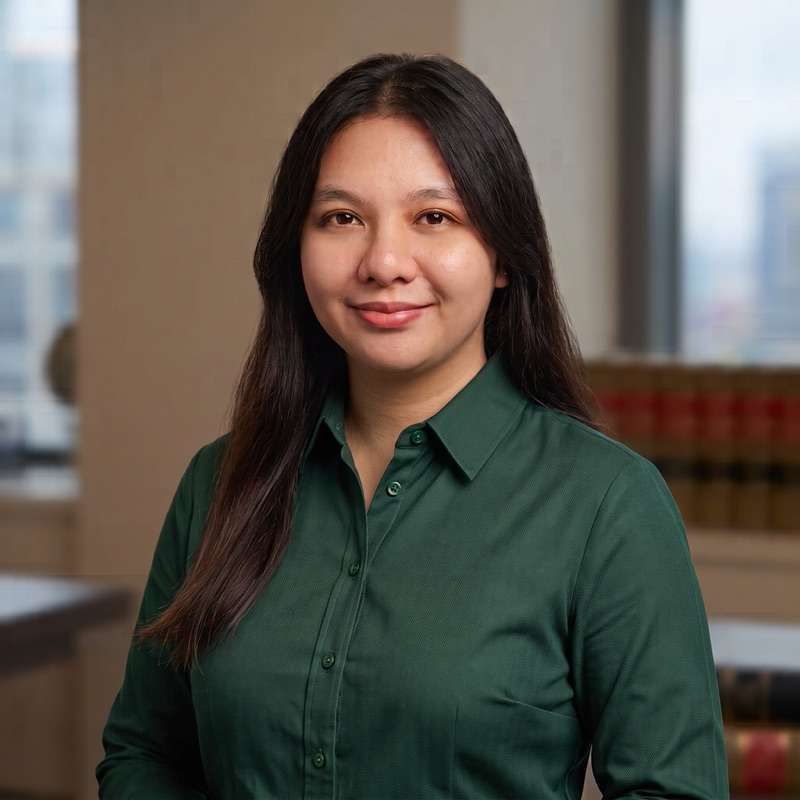
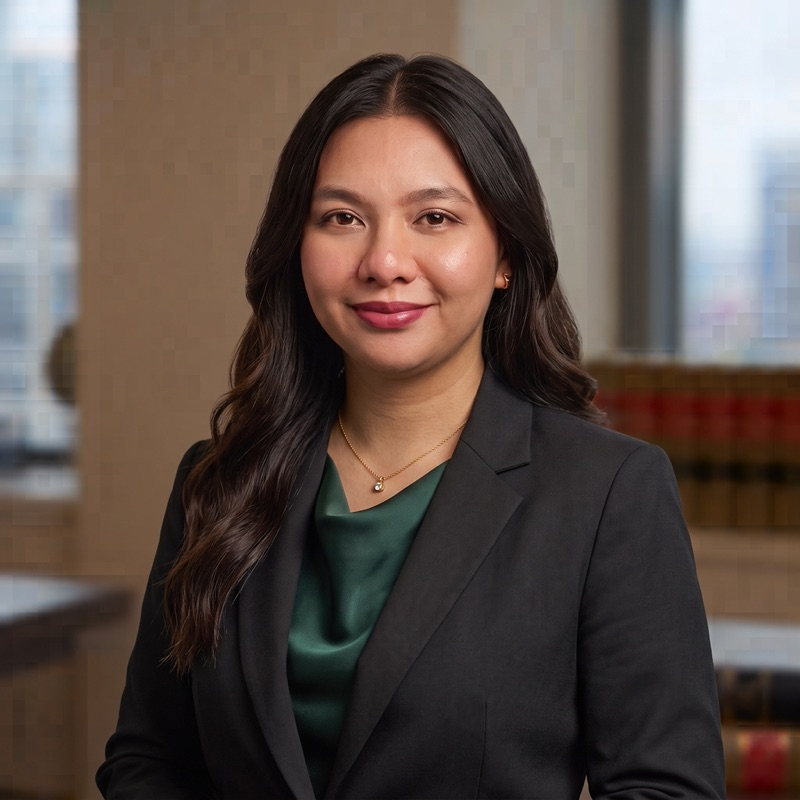
minor changes

diff --git a/content/uninsured-insured.html b/content/uninsured-insured.html
@@ -42,7 +42,7 @@
 
     <div class="conflict-grid">
         <div class="risk-col">
-            <h4>THE REALITY ON THE ROAD</h4>
+            <h3>THE REALITY ON THE ROAD</h3>
             <p> All states have laws that require drivers to show proof of their financial ability to pay for
                 personal
                 injury or property damage to others in the event of an automobile accident. Most drivers satisfy
@@ -64,7 +64,7 @@
         </div>
 
         <div class="solution-col">
-            <h4>THE ATTORNEY ADVANTAGE</h4>
+            <h3>THE ATTORNEY ADVANTAGE</h3>
             <p>It is for this reason that many people pursuing claims under their uninsured motorist coverage retain
                 an attorney to represent them and protect their interests. Now, it is true that if your insurance
                 company disputes the worth of your uninsured motorist claim it can require you to participate in an

diff --git a/assets/css/meet-our-team.css b/assets/css/meet-our-team.css
@@ -449,6 +449,13 @@
         padding: 30px;
     }
 
+    /* Sin mínimo fijo en móvil: con min-width 300px las columnas desbordaban a 320px (WCAG 1.4.10) */
+    .founder-img-col,
+    .founder-info-col {
+        min-width: 0;
+        width: 100%;
+    }
+
     .founder-stats {
         grid-template-columns: 1fr;
         gap: 15px;

diff --git a/assets/css/testimonies.css b/assets/css/testimonies.css
@@ -62,7 +62,7 @@
 
 .reviews-grid {
     display: grid;
-    grid-template-columns: repeat(auto-fit, minmax(350px, 1fr));
+    grid-template-columns: repeat(auto-fit, minmax(min(350px, 100%), 1fr)); /* min(): en viewports <350px la tarjeta no desborda (WCAG 1.4.10) */
     gap: 30px;
     max-width: 1200px;
     margin: 0 auto;

diff --git a/assets/css/uninsured-insured.css b/assets/css/uninsured-insured.css
@@ -97,8 +97,8 @@
     border-radius: 0 0 4px 4px;
 }
 
-.solution-col h4,
-.risk-col h4 {
+.solution-col h3,
+.risk-col h3 {
     font-family: "Playfair Display", serif;
     font-size: 1.5rem;
     color: var(--clark-primary);

diff --git a/page-meet-our-team.php b/page-meet-our-team.php
@@ -184,6 +184,14 @@ get_header();
                 </div>
             </div>
 
+            <div class="attorney-card" data-dept="attorneys" data-office="palm-desert">
+                <img src="/wp-content/themes/nehoray-law/assets/img/placeholder-silhouette.png" alt="Roberto Maciel">
+                <div class="attorney-info">
+                    <span class="attorney-role">Attorney</span>
+                    <h4 class="attorney-name">Roberto</h4>
+                    <h4 class="attorney-lastname">Maciel</h4>
+                </div>
+            </div>
 
             <!-- PERSONAL INJURY DEPARTMENT -->
             <div class="attorney-card" data-dept="personal-injury" data-office="headquarters" data-bio="Jackie Martinez is the Personal Injury Manager who oversees the day-to-day operations of the firm's personal injury department, ensuring that all cases progress efficiently and in alignment with the firm's standards of excellence. With 25 years of experience in the personal injury field, Jackie brings deep industry knowledge, strong leadership, and a results-driven approach to every matter she manages.|She specializes in a wide range of personal injury cases, including motor vehicle accidents, premises liability, wrongful death, and dog bite claims. Jackie's extensive background in risk management, and both pre-litigation and litigation enables her to effectively manage case strategy, anticipate challenges, and support the legal team in maximizing client recovery.|In her role, Jackie supervises case workflows, oversees documentation and discovery, and works closely with case managers, attorneys, clients, medical providers, and insurance carriers to ensure seamless case handling. Her attention to detail and organizational expertise help maintain well-developed files that are positioned for successful outcomes.">
@@ -423,6 +431,15 @@ get_header();
                     <h4 class="attorney-lastname">Rodriguez</h4>
                 </div>
             </div>
+            <div class="attorney-card" data-dept="workers-comp" data-office="oakland">
+                <img src="/wp-content/themes/nehoray-law/assets/img/SergioMonteon.jpg" alt="Sergio Monteon">
+                <div class="attorney-info">
+                    <span class="attorney-role">Workers' Compensation</span>
+                    <span class="attorney-role-secondary">Case Manager</span>
+                    <h4 class="attorney-name">Sergio</h4>
+                    <h4 class="attorney-lastname">Monteon</h4>
+                </div>
+            </div>
             <div class="attorney-card" data-dept="workers-comp" data-office="headquarters">
                 <img src="/wp-content/themes/nehoray-law/assets/img/MichelleHernandez.jpg" alt="Michelle Hernandez">
                 <div class="attorney-info">
@@ -437,6 +454,14 @@ get_header();
                     <span class="attorney-role">Jr. Case Manager</span>
                     <h4 class="attorney-name">Ashley</h4>
                     <h4 class="attorney-lastname">Nadeau</h4>
+                </div>
+            </div>
+            <div class="attorney-card" data-dept="workers-comp" data-office="modesto">
+                <img src="/wp-content/themes/nehoray-law/assets/img/JasmineParra.jpg" alt="Jasmine Parra">
+                <div class="attorney-info">
+                    <span class="attorney-role">Jr. Case Manager</span>
+                    <h4 class="attorney-name">Jasmine</h4>
+                    <h4 class="attorney-lastname">Parra</h4>
                 </div>
             </div>
 
@@ -548,12 +573,60 @@ get_header();
                     <h4 class="attorney-lastname">Salcedo</h4>
                 </div>
             </div>
+            <div class="attorney-card" data-dept="workers-comp" data-office="headquarters">
+                <img src="/wp-content/themes/nehoray-law/assets/img/placeholder-silhouette.png" alt="Jesus Diaz">
+                <div class="attorney-info">
+                    <span class="attorney-role">Assistant Case Manager</span>
+                    <h4 class="attorney-name">Jesus</h4>
+                    <h4 class="attorney-lastname">Diaz</h4>
+                </div>
+            </div>
+            <div class="attorney-card" data-dept="workers-comp" data-office="headquarters">
+                <img src="/wp-content/themes/nehoray-law/assets/img/placeholder-silhouette.png" alt="Enrique Lopez">
+                <div class="attorney-info">
+                    <span class="attorney-role">Assistant Case Manager</span>
+                    <h4 class="attorney-name">Enrique</h4>
+                    <h4 class="attorney-lastname">Lopez</h4>
+                </div>
+            </div>
+            <div class="attorney-card" data-dept="workers-comp" data-office="headquarters">
+                <img src="/wp-content/themes/nehoray-law/assets/img/placeholder-silhouette.png" alt="Andrian Ramirez">
+                <div class="attorney-info">
+                    <span class="attorney-role">Assistant Case Manager</span>
+                    <h4 class="attorney-name">Andrian</h4>
+                    <h4 class="attorney-lastname">Ramirez</h4>
+                </div>
+            </div>
+            <div class="attorney-card" data-dept="workers-comp" data-office="headquarters">
+                <img src="/wp-content/themes/nehoray-law/assets/img/placeholder-silhouette.png" alt="Kevin Uribe">
+                <div class="attorney-info">
+                    <span class="attorney-role">Assistant Case Manager</span>
+                    <h4 class="attorney-name">Kevin</h4>
+                    <h4 class="attorney-lastname">Uribe</h4>
+                </div>
+            </div>
+            <div class="attorney-card" data-dept="workers-comp" data-office="headquarters">
+                <img src="/wp-content/themes/nehoray-law/assets/img/placeholder-silhouette.png" alt="Jade Romero">
+                <div class="attorney-info">
+                    <span class="attorney-role">Assistant Case Manager</span>
+                    <h4 class="attorney-name">Jade</h4>
+                    <h4 class="attorney-lastname">Romero</h4>
+                </div>
+            </div>
+            <div class="attorney-card" data-dept="workers-comp" data-office="headquarters">
+                <img src="/wp-content/themes/nehoray-law/assets/img/BrayanMartinez.jpg" alt="Brayan Martinez">
+                <div class="attorney-info">
+                    <span class="attorney-role">Assistant Case Manager</span>
+                    <h4 class="attorney-name">Brayan</h4>
+                    <h4 class="attorney-lastname">Martinez</h4>
+                </div>
+            </div>
 
             <!-- INTAKE DEPARTMENT -->
             <div class="attorney-card" data-dept="intake" data-office="headquarters">
                 <img src="/wp-content/themes/nehoray-law/assets/img/SamanthaMarten.jpg" alt="Samantha Marten">
                 <div class="attorney-info">
-                    <span class="attorney-role">Intake Operations Manager</span>
+                    <span class="attorney-role">Intake Department Manager</span>
                     <h4 class="attorney-name">Samantha</h4>
                     <h4 class="attorney-lastname">Marten</h4>
                 </div>
@@ -581,6 +654,14 @@ get_header();
                     <span class="attorney-role">Intake Representative</span>
                     <h4 class="attorney-name">Valentina</h4>
                     <h4 class="attorney-lastname">Rodriguez</h4>
+                </div>
+            </div>
+            <div class="attorney-card" data-dept="intake" data-office="headquarters">
+                <img src="/wp-content/themes/nehoray-law/assets/img/ChristopherMccarron.jpg" alt="Christopher Mccarron">
+                <div class="attorney-info">
+                    <span class="attorney-role">Intake Representative</span>
+                    <h4 class="attorney-name">Christopher</h4>
+                    <h4 class="attorney-lastname">Mccarron</h4>
                 </div>
             </div>
             <div class="attorney-card" data-dept="intake" data-office="headquarters">
@@ -759,6 +840,14 @@ get_header();
                     <h4 class="attorney-lastname">Reyes</h4>
                 </div>
             </div>
+            <div class="attorney-card" data-dept="medical" data-office="headquarters">
+                <img src="/wp-content/themes/nehoray-law/assets/img/placeholder-silhouette.png" alt="Laura Neuta">
+                <div class="attorney-info">
+                    <span class="attorney-role">Medical Team</span>
+                    <h4 class="attorney-name">Laura</h4>
+                    <h4 class="attorney-lastname">Neuta</h4>
+                </div>
+            </div>
 
             <!-- Q.M.E. DEPARTMENT -->
             <div class="attorney-card" data-dept="qme" data-office="headquarters">
@@ -802,14 +891,22 @@ get_header();
                     <h4 class="attorney-lastname">Bundac</h4>
                 </div>
             </div>
+            <div class="attorney-card" data-dept="qme" data-office="headquarters">
+                <img src="/wp-content/themes/nehoray-law/assets/img/AtharvaGaikwad.jpg" alt="Atty Gaikwad">
+                <div class="attorney-info">
+                    <span class="attorney-role">Legal Assistant</span>
+                    <h4 class="attorney-name">Atty</h4>
+                    <h4 class="attorney-lastname">Gaikwad</h4>
+                </div>
+            </div>
 
             <!-- MARKETING DEPARTMENT -->
             <div class="attorney-card" data-dept="marketing" data-office="headquarters">
-                <img src="/wp-content/themes/nehoray-law/assets/img/JamieDoe.jpg" alt="Jamie Doe">
+                <img src="/wp-content/themes/nehoray-law/assets/img/AlexisLedesma.jpg" alt="Alexis Ledesma">
                 <div class="attorney-info">
-                    <span class="attorney-role">Brand & Partnerships Manager</span>
-                    <h4 class="attorney-name">Jamie</h4>
-                    <h4 class="attorney-lastname">Doe</h4>
+                    <span class="attorney-role">Business Development Manager</span>
+                    <h4 class="attorney-name">Alexis</h4>
+                    <h4 class="attorney-lastname">Ledesma</h4>
                 </div>
             </div>
             <div class="attorney-card" data-dept="marketing" data-office="headquarters">
@@ -818,14 +915,6 @@ get_header();
                     <span class="attorney-role">Social Media Content Creator</span>
                     <h4 class="attorney-name">Valentina</h4>
                     <h4 class="attorney-lastname">Villamil</h4>
-                </div>
-            </div>
-            <div class="attorney-card" data-dept="marketing" data-office="headquarters">
-                <img src="/wp-content/themes/nehoray-law/assets/img/KatrinaMalijan.jpg" alt="Katrina Malijan">
-                <div class="attorney-info">
-                    <span class="attorney-role">Marketing Admin</span>
-                    <h4 class="attorney-name">Katrina</h4>
-                    <h4 class="attorney-lastname">Malijan</h4>
                 </div>
             </div>
             <div class="attorney-card" data-dept="marketing" data-office="headquarters">
@@ -906,7 +995,7 @@ get_header();
                 </div>
             </div>
             <div class="attorney-card" data-dept="workers-comp" data-office="headquarters">
-                <img src="/wp-content/themes/nehoray-law/assets/img/EdvaPalero.jpg" alt="Edva Palero">
+                <img src="/wp-content/themes/nehoray-law/assets/img/EdvaPalero.jpg?v=2" alt="Edva Palero">
                 <div class="attorney-info">
                     <span class="attorney-role">Administrative Assistant</span>
                     <h4 class="attorney-name">Edva</h4>

diff --git a/functions.php b/functions.php
@@ -9,7 +9,7 @@
 
 if ( ! defined( '_S_VERSION' ) ) {
 	// Replace the version number of the theme on each release.
-	define( '_S_VERSION', '1.2.4' );
+	define( '_S_VERSION', '1.2.5' );
 }
 
 /**
